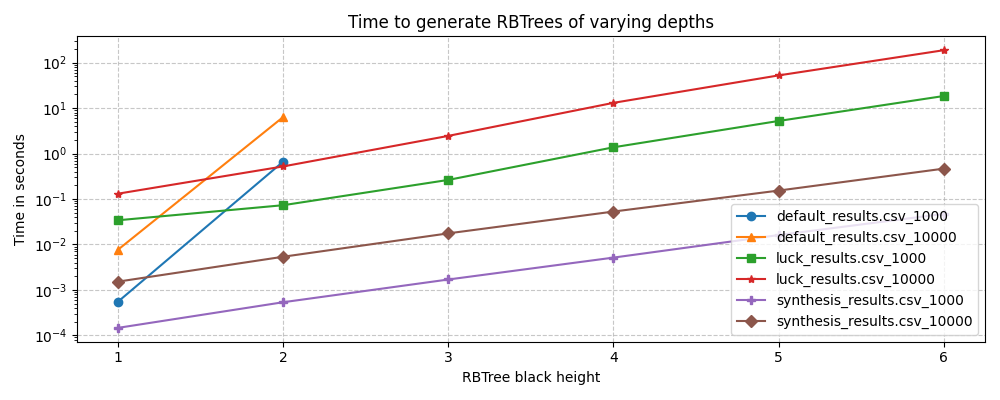
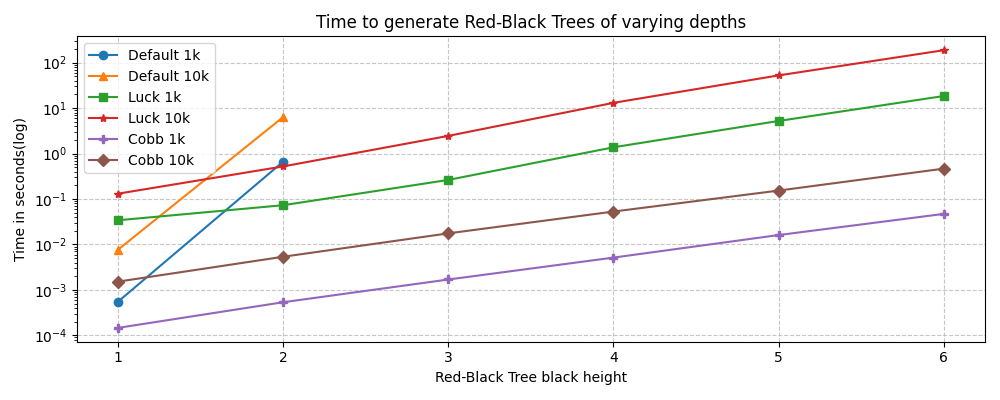
Update linegraph with Pratyush suggestions

diff --git a/scripts/line_graph.py b/scripts/line_graph.py
@@ -66,20 +66,48 @@ x_values = []
 
 markers = ["o", "^", "s", "*", "P", "D"]
 
+
+# HACK: TODO FIX THIS
+def map_names(name):
+    if "default" in name:
+        if "10000" in name:
+            return "Default 10k"
+        elif "1000" in name:
+            return "Default 1k"
+        else:
+            raise "Unknown default"
+    elif "luck" in name:
+        if "10000" in name:
+            return "Luck 10k"
+        elif "1000" in name:
+            return "Luck 1k"
+        else:
+            raise "Unknown Luck"
+    elif "synthesis" in name:
+        if "10000" in name:
+            return "Cobb 10k"
+        elif "1000" in name:
+            return "Cobb 1k"
+        else:
+            raise "Unknown Cobb"
+    else:
+        raise "Unknown name"
+
+
 # Plot each dictionary as a separate line
 for idx, (name, values) in enumerate(data_dict.items()):
     # Extract x and y values
     x_values = list(values.keys())
     y_values = list(values.values())
-    marker=markers[idx % len(markers)]
+    marker = markers[idx % len(markers)]
 
     # Plot this line with a label
-    plt.plot(x_values, y_values, marker=marker, linestyle="-", label=name)
+    plt.plot(x_values, y_values, marker=marker, linestyle="-", label=map_names(name))
 
 # Add labels and title
-plt.xlabel("RBTree black height")
-plt.ylabel("Time in seconds")
-plt.title("Time to generate RBTrees of varying depths")
+plt.xlabel("Red-Black Tree black height")
+plt.ylabel("Time in seconds(log)")
+plt.title("Time to generate Red-Black Trees of varying depths")
 
 plt.xticks(np.arange(min(x_values), max(x_values) + 1, 1))
 
